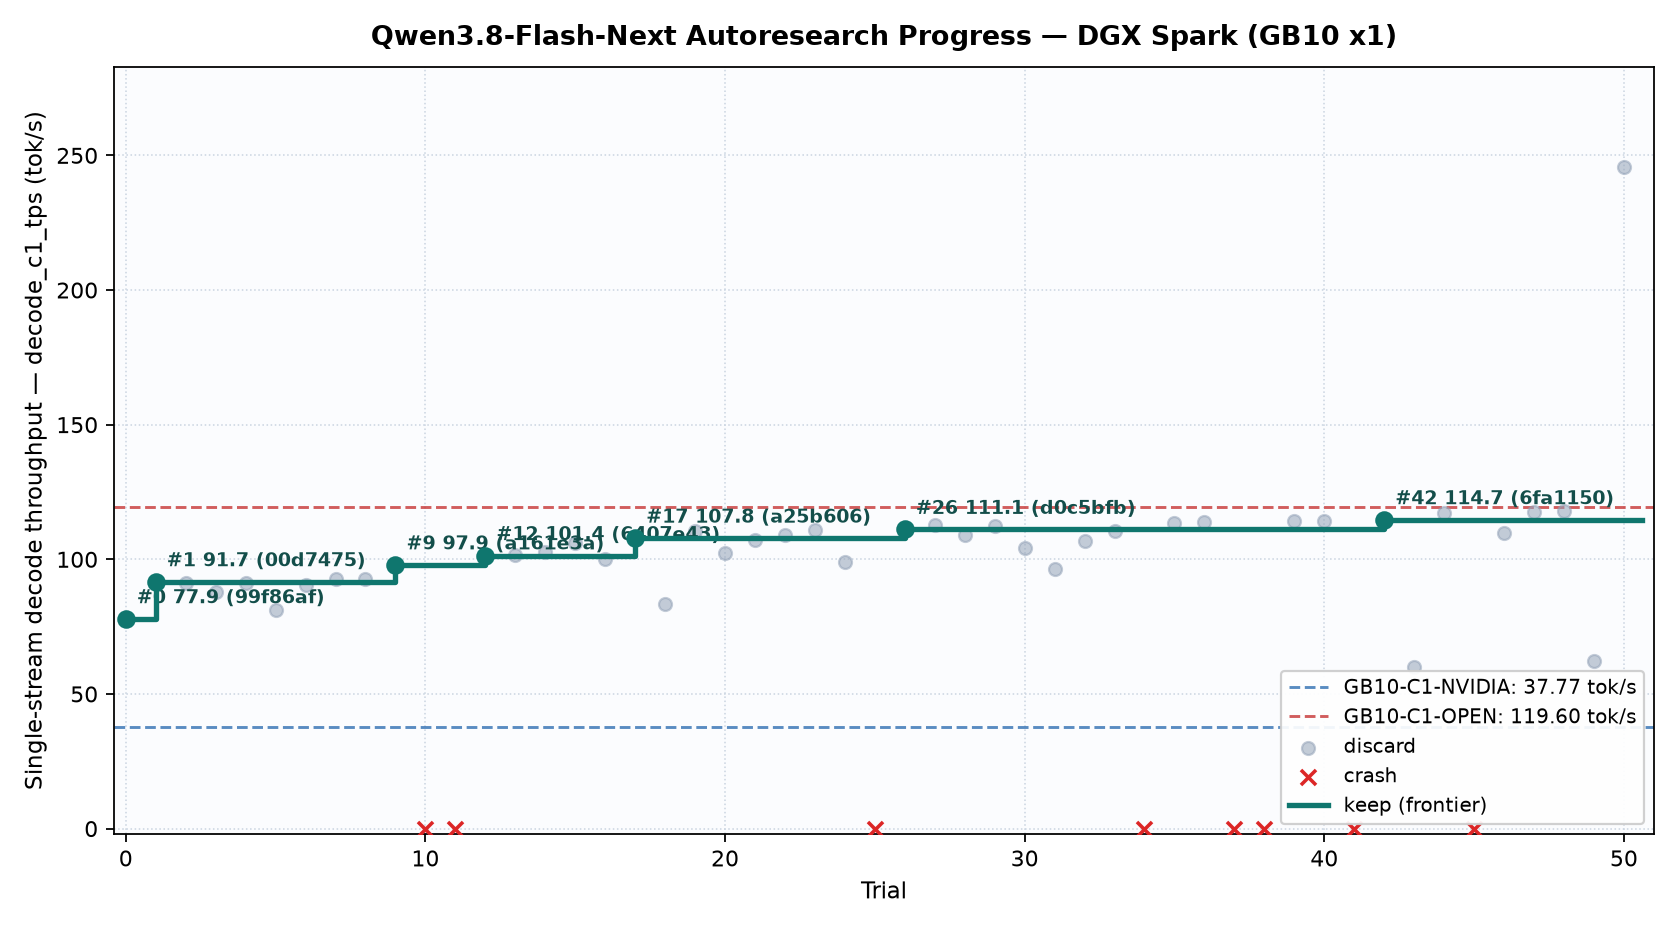
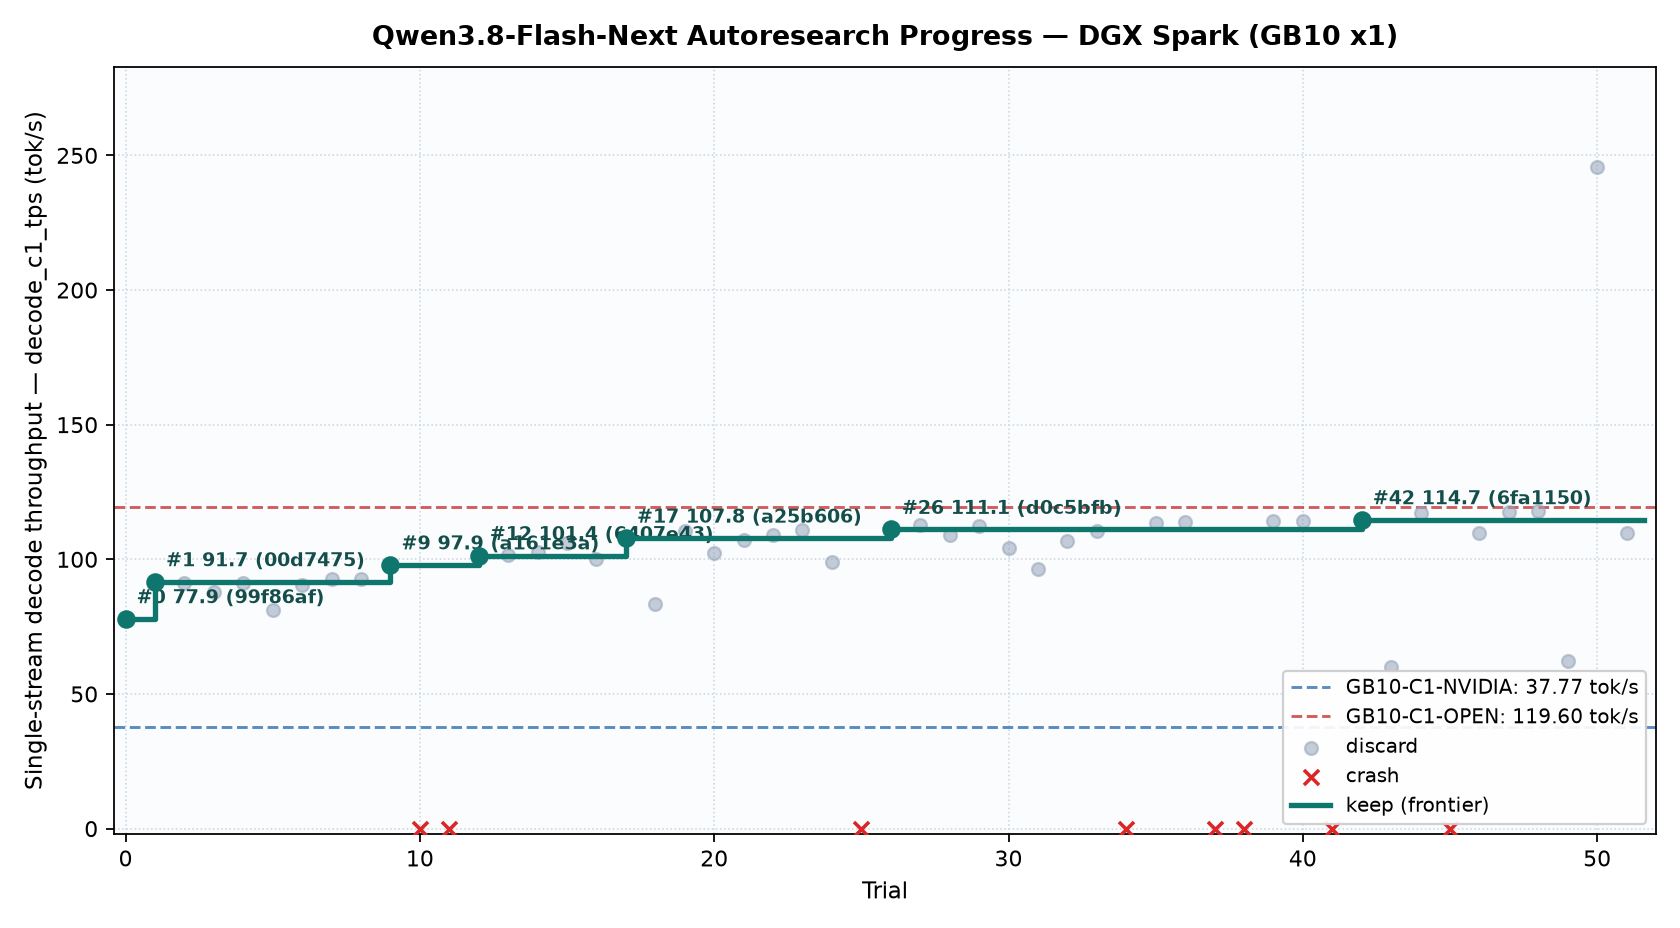
spark trial 51: discard

diff --git a/records/research-log.md b/records/research-log.md
@@ -80,3 +80,4 @@ Deprioritized: **3-bit expert weights** (Hibana +43% but GPQA -0.3, LCB -2.3; on
 | 2026-11-20 08:25 | 48 (new stack) | <https://github.com/ashhart/TensorFold/commit/e800caa5>, <https://github.com/vllm-project/vllm/commit/0e2e6a44>, <https://github.com/sgl-project/sglang/commit/99e4233f>, <https://github.com/ggml-org/llama.cpp/commit/b94959a6> | Six-engine check (`vllm` `0e2e6a44`/`55bc73ec`, `sglang` `5cee3ad8`/`99e4233f`, `TensorRT-LLM` `b963a7ab`/`0c98f6fe`, `llama.cpp` `b94959a6`, `TensorFold` `81de26f6`/`e800caa5`, `hibana` `d474b74d`): Trial 47 hit `117.64 tok/s` (`+2.57%`, `0.49 tok/s` shy of keep) with `d24` adding `+23 ms` cold `BM=32` capture overhead on `r1`; PDL-de-overlapped exclusive profile of Trial 44 exposed `fn_hc_writeback_norm_{slices,moe}` (`69.3 ms` = `1.36%` exclusive) reading `1.80 MB` `s.y` and `BR` 4x via scalar loads; cold-DRAM microbenchmark showed 1-read-all-4-streams `uint4`/`float4` 320-thread `hc_writeback_norm` with exact `16->8->4->2->1` butterfly tree (`diff_H=0, diff_NORM=0, diff_PSS=0`) runs `2.25x` faster (`36.7->16.3 us/layer`), plus fusing `out_proj`/`o_proj` `SK=8` partial reduction directly into `fn_hc_writeback_norm_slices` eliminates 48 `reduce_kernel` launches and 48 `s.part` round-trips (`+1.44%` pure hardware gain over Trial 44 across all prompts and `c4` at 100% exact SHAs). | Adopted in trial 48 on Trial 47's fused `tf_route_topk_plan` base: 100% bit-exact 1-read `uint4`/`float4` 320-thread `hc_writeback_norm` (`diff=0`), fused `out_proj`/`o_proj` `SK=8` partial reduction (`fuse_out_native` isolated from MTP absorb), and pure `BM=16` `DRAFTS_GREEDY=15` (`hash_match=1`). |
 | 2026-11-20 10:44 | 49 (new stack) | <https://github.com/sharar-project/hibana/blob/v0.1.0/hibana/model/flashnext/moe.py>, <https://github.com/sharar-project/hibana/blob/v0.1.0/hibana/kernels/flashnext_fused.py>, <https://arxiv.org/abs/2611.10469v1>, <https://github.com/ashhart/TensorFold/commit/7d4a77aa> | Six-engine check (`vllm` `82c6b325`, `sglang` `6d35ff21`, `TensorRT-LLM` `1ea2e764`, `llama.cpp` `b94959a6`, `TensorFold` `7d4a77aa`, `hibana` `d474b74d`): Trial 48 hit `117.95 tok/s` (`+2.84%`, `hash_match=1`, records on `c4=168.94`/`c8=230.40`/`ttft=0.155`); per owner priority queue, Hibana item 1 budgeted expert sharing (`keep=4`, `budget=12:64`, `MIN_CAP=16`, `MIN_GUARANTEE=2`, `ROUTE_CANDIDATES=20`, deterministic full-512 softmax mass ranking) cuts `c=1` active routed experts/layer from ~65 to ~17 (`2.765 MB/expert` × 48 layers -> expected ~6.37 GB/round saved, -74% routed-expert DRAM, measured `-28.4 ms/round` and `+49.2%` `c=1`, `+23.5%` `c=4`, `+18.0%` `c=8` on synthetic coding A/B; prefill, MTP, and shared expert untouched). | Adopted in trial 49 (Hibana item 1) on Trial 48 base: fuse Hibana `route_budget` (`keep=4`, `budget=12:64`, `min_cap=16`, `min_guarantee=2`, `C=20`, unused slots skipped at weight 0) inside single-CTA `tf_route_topk_plan` (`M<=128`, tightened item bound) for target decode/verify only + unify fast paged-KV/NVFP4/expert-sharing settings into `guard` profile (GPQA `G40`/`G198` guarded). |
 | 2026-11-20 11:02 | 50 (new stack) | <https://github.com/sharar-project/hibana/blob/v0.1.0/hibana/model/flashnext/moe.py>, <https://github.com/ashhart/TensorFold/commit/727153cb>, <https://github.com/sgl-project/sglang/commit/08f10090>, <https://github.com/NVIDIA/TensorRT-LLM/commit/cfc19a30> | Six-engine check (`vllm` `82c6b325`, `sglang` `08f10090`, `TensorRT-LLM` `cfc19a30`, `llama.cpp` `b94959a6`, `TensorFold` `727153cb`, `hibana` `d474b74d`): Trial 49 (Hibana item 1, `MIN_CAP=16`) shattered all multi-stream records (`c4=263.23` `+55.8%`, `c8=320.93` `+39.3%`, `c16=390.07` `+42.0%`, `prefill=1587.57`) and cut `c=1` round time `-40.1%` (`82.3->49.3 ms/rd`), but on `code-c1` `CAP=16` at `DRAFTS_GREEDY=15` (`GUAR=2..3`) triggered draft-target rejection (`41->130` rounds), whereas `c=4` (`CAP=48, GUAR=4`) kept `66 vs 65` rounds on the same prompt; raising `MIN_CAP=32` keeps `GUAR=4` across all `M<=16` `c=1` verify windows (~`65->32` experts/layer -> ~`4.38 GB/round` saved, `-51%` routed-expert DRAM), achieved fewer rounds than baseline on all 3 high-acceptance coding prompts (`+39.6%` `c=1`), and raises `guard` `c=2` speed via `DRAFTS=12, CONFIDENCE=-0.10`. | Adopted in trial 50 (Hibana item 1 refined) on Trial 49 binary: raise `TF_FLASHNEXT_MOE_MIN_CAP=32` (`keep=4, budget=12:64`, guaranteeing `GUAR=4` across all `M<=16` `c=1` verify passes and preserving `c4/c8/c16` `48/64/64` caps) + tune `guard` `DRAFTS=12, CONFIDENCE=-0.10` (GPQA `G40`/`G198` guarded). |
+| 2026-11-20 11:46 | 51 (new stack) | <https://github.com/sharar-project/hibana/blob/v0.1.0/hibana/kernels/kv_fp4.py>, <https://github.com/ashhart/TensorFold/blob/v1.2.9/zig/kernels/cuda/kv_fp8.cuh>, <https://github.com/NVIDIA/TensorRT-LLM/commit/49f4b27f>, <https://github.com/ashhart/TensorFold/commit/9e2a9bd7> | Six-engine check (`vllm` `898a7c68`, `sglang` `f913bf9a`, `TensorRT-LLM` `49f4b27f` qwen3.8 Spark test `#21763`, `llama.cpp` `b94959a6`, `TensorFold` `9e2a9bd7`, `hibana` `d474b74d`): Trial 50 (Hibana item 1 refined, `MIN_CAP=32, KEEP=4, GUAR=4`) hit `245.86 tok/s` C1 (`+114.37%`), `c4=262.48`, `c8=329.23`, `c16=392.33`, `ttft=0.154s`, `prefill=1607.25`, and `13/13` (`100.0%`) on `G40` before hitting frozen `bench/run_trial.sh` `CAP_SEC=1200`s (`guard.py --clients 2` at `~88 tok/s` total; proposal for human orchestrator: raise `CAP_SEC` to `4800`s/`24000`s and/or pass `--clients 8` with `GUARD_PARALLEL=8` so non-`hash_match` `G40`/`G198` passes complete); per owner priority queue, Hibana item 2 FP8 E4M3 KV cache testing showed unit-scale (`scale=1`) underflowed unnormalized `V` (`-11%`), while per-head-row FP32-scaled E4M3 (`amax/448.0`, `272 B/head`, `1.88x` smaller KV, `-15.9 KB` attn SMEM) matched 64-tok BF16 SHA, cut VRAM `-2.99 GiB` (`95.13->92.14 GiB`), and gained `+8.9%` on 4 coding prompts (`70.69->76.99 tok/s`). | Adopted in trial 51 (Hibana item 2) on Trial 48 base: per-head-row FP32-scaled FP8 E4M3 KV cache (`272 B/head` in `flashnext_attn.cu`/`flashnext_pages.cuh`/`cuda_heads.zig`/`cuda_pages.zig`/`cuda_glue.zig`, `cp.async` raw FP8 staging + `fp8pair_unit`+`mul.rn.bf16x2` unpack, GPQA `G40`/`G198` guarded). |
